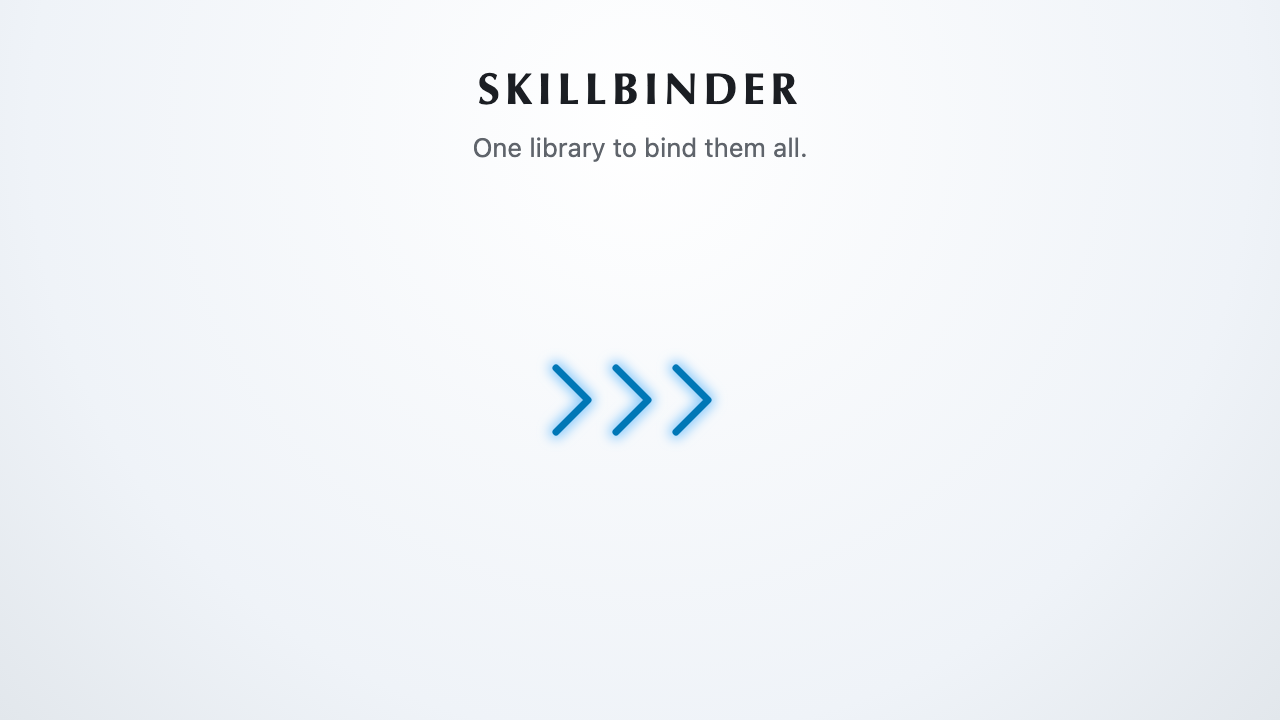
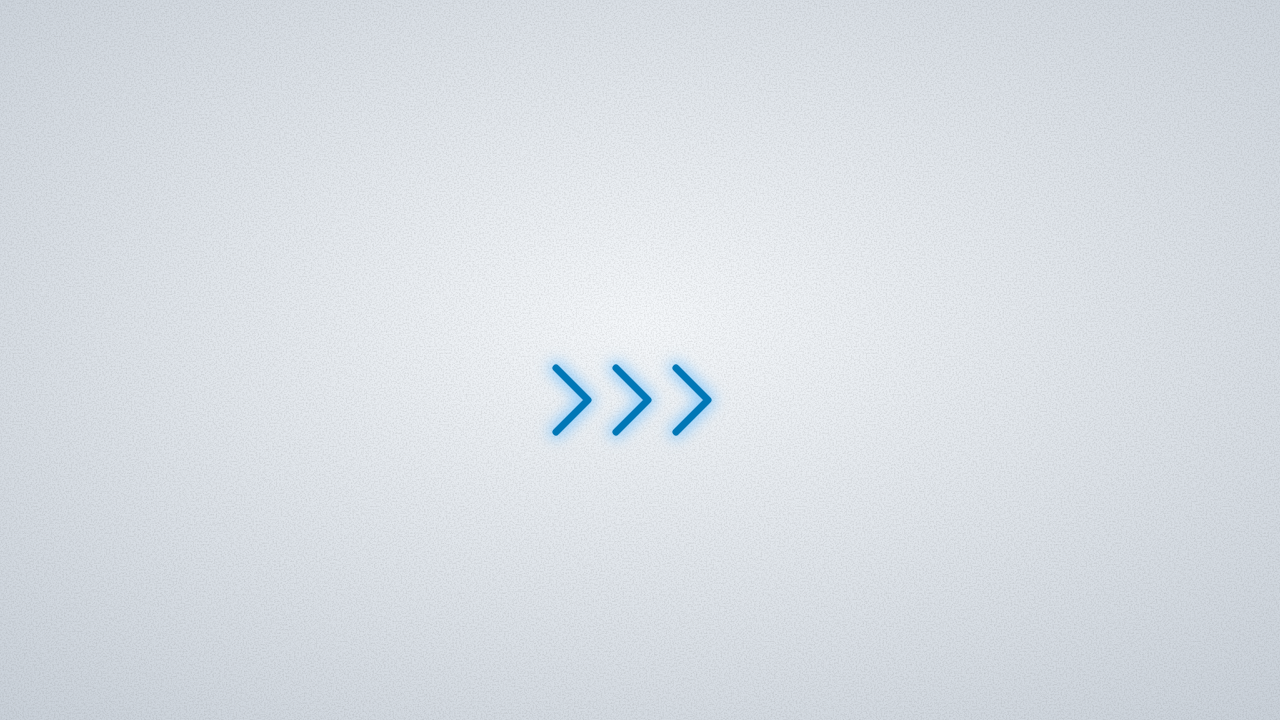
feat(brand): disk image background without lettering, on pale stone
The background drops the Optima wordmark and the slogan until the
wordmark's lettering is licensed or drawn: only the rune chevrons on pale
slate stone with the icon's grain. It stays pale because Finder draws the
icon labels in black over a background picture.

diff --git a/docs/design/brand/source/dmg-background.html b/docs/design/brand/source/dmg-background.html
@@ -4,28 +4,27 @@
 <meta charset="utf-8">
 <title>Disk image background</title>
 <!-- The macOS disk image window's background, 640 x 360 points, for export-brand.sh to capture
-     at 1x and 2x. dmgbuild places SkillBinder at (160, 200) and Applications at (480, 200)
-     (packaging/macos/dmgbuild-settings.py). It stays light: Finder draws the icon labels in
-     black over a background picture, even in Dark Mode. -->
-<style>
-  html, body { margin: 0; }
-  body { width: 640px; height: 360px; overflow: hidden; position: relative;
-    background: radial-gradient(circle at 50% 18%, #FFFFFF, #EFF3F8 70%, #E2E7EC); }
-  .mark { position: absolute; top: 34px; left: 0; right: 0; text-align: center; }
-  .word { font: 600 22px/1 Optima, Candara, sans-serif; letter-spacing: .12em; color: #1B1E23; }
-  .line { margin-top: 10px; font: 13px/1.2 -apple-system, BlinkMacSystemFont, sans-serif; color: #5F646B; }
-  svg { position: absolute; left: 0; top: 0; }
-</style>
+     at 1x and 2x: pale slate stone with three rune chevrons leading from SkillBinder at (160, 200)
+     to Applications at (480, 200) (packaging/macos/dmgbuild-settings.py). The stone stays pale,
+     not the icon's dark slate, because Finder draws the icon labels in black over a background
+     picture, even in Dark Mode. -->
+<style>html, body { margin: 0; } svg { display: block; }</style>
 </head>
 <body>
-<div class="mark"><div class="word">SKILLBINDER</div><div class="line">One library to bind them all.</div></div>
-<!-- Three rune chevrons lead from the app to Applications, glowing like the icon's rune. -->
-<svg width="640" height="360" viewBox="0 0 640 360" xmlns="http://www.w3.org/2000/svg">
-  <defs><filter id="glow" x="-50%" y="-50%" width="200%" height="200%"><feGaussianBlur stdDeviation="3"/></filter></defs>
-  <g fill="none" stroke-linecap="round" stroke-linejoin="round">
-    <path d="M278 184l16 16-16 16M308 184l16 16-16 16M338 184l16 16-16 16" stroke="#8FCCFB" stroke-width="7" filter="url(#glow)"/>
-    <path d="M278 184l16 16-16 16M308 184l16 16-16 16M338 184l16 16-16 16" stroke="#0077B6" stroke-width="3.5"/>
-  </g>
-</svg>
+<script>
+  // DESIGN.md tokens, as in the icon's Frost scheme.
+  const [inner, outer, grain, glow, core] = ['#F4F7FA', '#C5CDD6', 0.1, '#8FCCFB', '#0077B6'];
+  const arrows = 'M278 184l16 16-16 16M308 184l16 16-16 16M338 184l16 16-16 16';
+  document.body.innerHTML =
+    `<svg width="640" height="360" viewBox="0 0 640 360" xmlns="http://www.w3.org/2000/svg"><defs>` +
+    `<radialGradient id="g" cx=".5" cy=".45" r=".8"><stop offset="0" stop-color="${inner}"/><stop offset="1" stop-color="${outer}"/></radialGradient>` +
+    `<filter id="n"><feTurbulence type="fractalNoise" baseFrequency="1.2" numOctaves="2" seed="7"/>` +
+    `<feColorMatrix values="0 0 0 0 ${grain} 0 0 0 0 ${grain} 0 0 0 0 ${grain} 0 0 0 .3 -.12"/></filter>` +
+    `<filter id="b" x="-50%" y="-50%" width="200%" height="200%"><feGaussianBlur stdDeviation="3.5"/></filter></defs>` +
+    `<rect width="640" height="360" fill="url(#g)"/><rect width="640" height="360" filter="url(#n)"/>` +
+    `<g fill="none" stroke-linecap="round" stroke-linejoin="round">` +
+    `<path d="${arrows}" stroke="${glow}" stroke-width="7" filter="url(#b)"/>` +
+    `<path d="${arrows}" stroke="${core}" stroke-width="3.5"/></g></svg>`;
+</script>
 </body>
 </html>

diff --git a/docs/design/brand/README.md b/docs/design/brand/README.md
@@ -33,7 +33,7 @@ The playground keeps its state in the browser's local storage.
 - `icons.js`: the rune, its five framings, their color schemes, and the menu bar glyphs, drawn as SVG.
 - `brand.js`: the choices, the board, and the events.
 - `export.html`, `dmg-background.html`, and `export-brand.sh`: the packaged artwork. The script captures both pages with Google Chrome and writes `assets/icon.icns` (macOS, on Apple's 824-in-1024 icon grid), `assets/icon.ico` (Windows), `assets/icon.png` (Linux, 256 px), and `packaging/macos/dmg-background.png` with its `@2x` sibling. Run it on macOS after changing either page and commit what it writes.
-- The disk image window is 640 by 360 points: the wordmark and slogan above SkillBinder and Applications, joined by three rune chevrons, on a light Frost canvas. It stays light because Finder draws icon labels in black over a background picture, even in Dark Mode. The mounted volume wears the app icon.
+- The disk image window is 640 by 360 points: SkillBinder and Applications joined by three glowing rune chevrons on pale slate stone, with no wordmark or slogan until the wordmark's lettering is licensed or drawn. The stone stays pale, not the icon's dark slate, because Finder draws icon labels in black over a background picture, even in Dark Mode. The mounted volume wears the app icon.
 
 Rebuild the bundle with the shared inliner:
 
